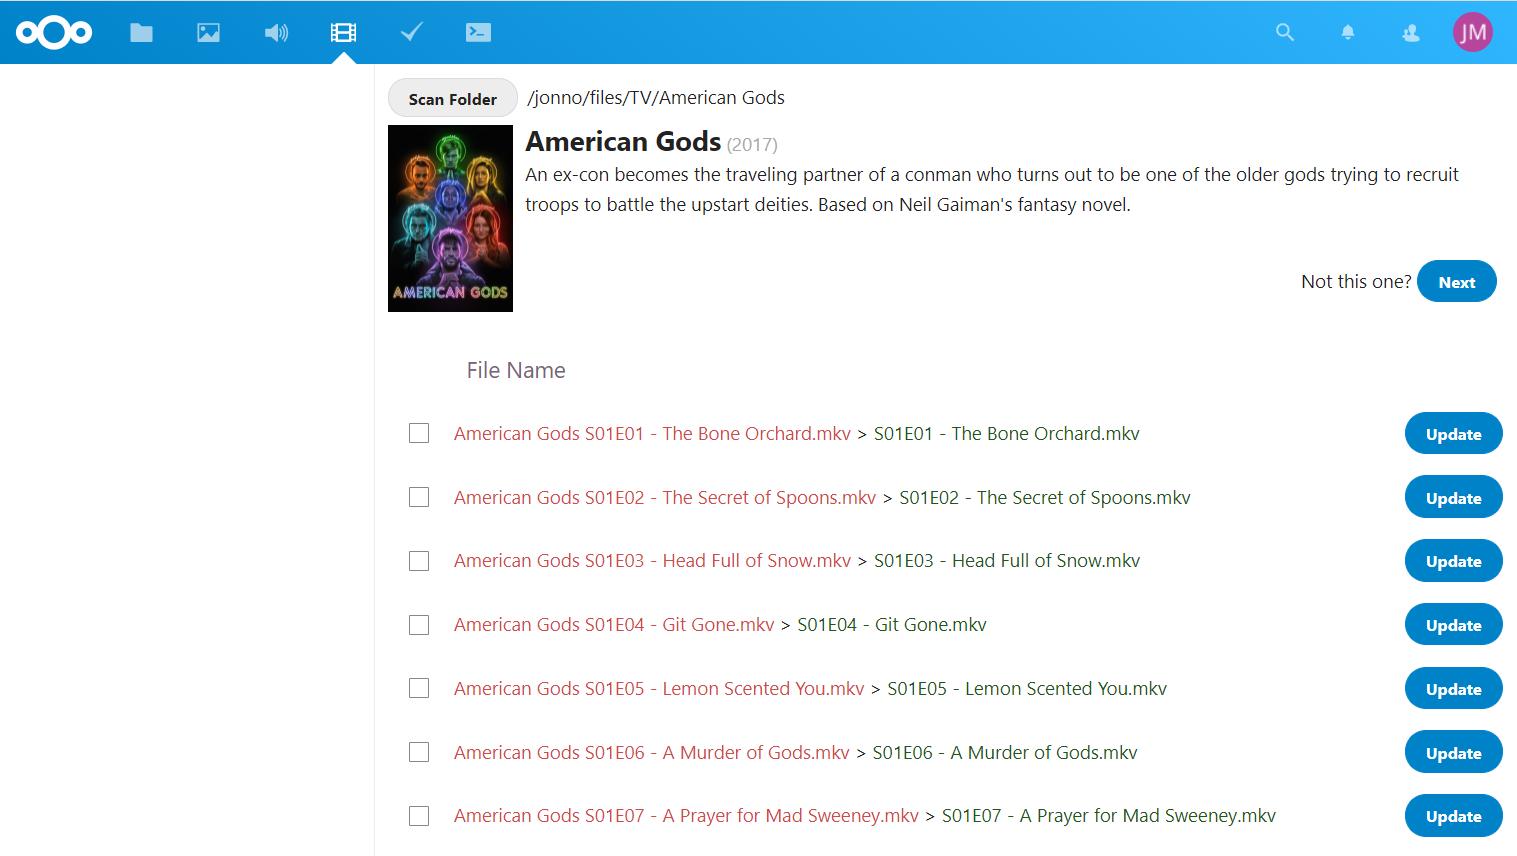
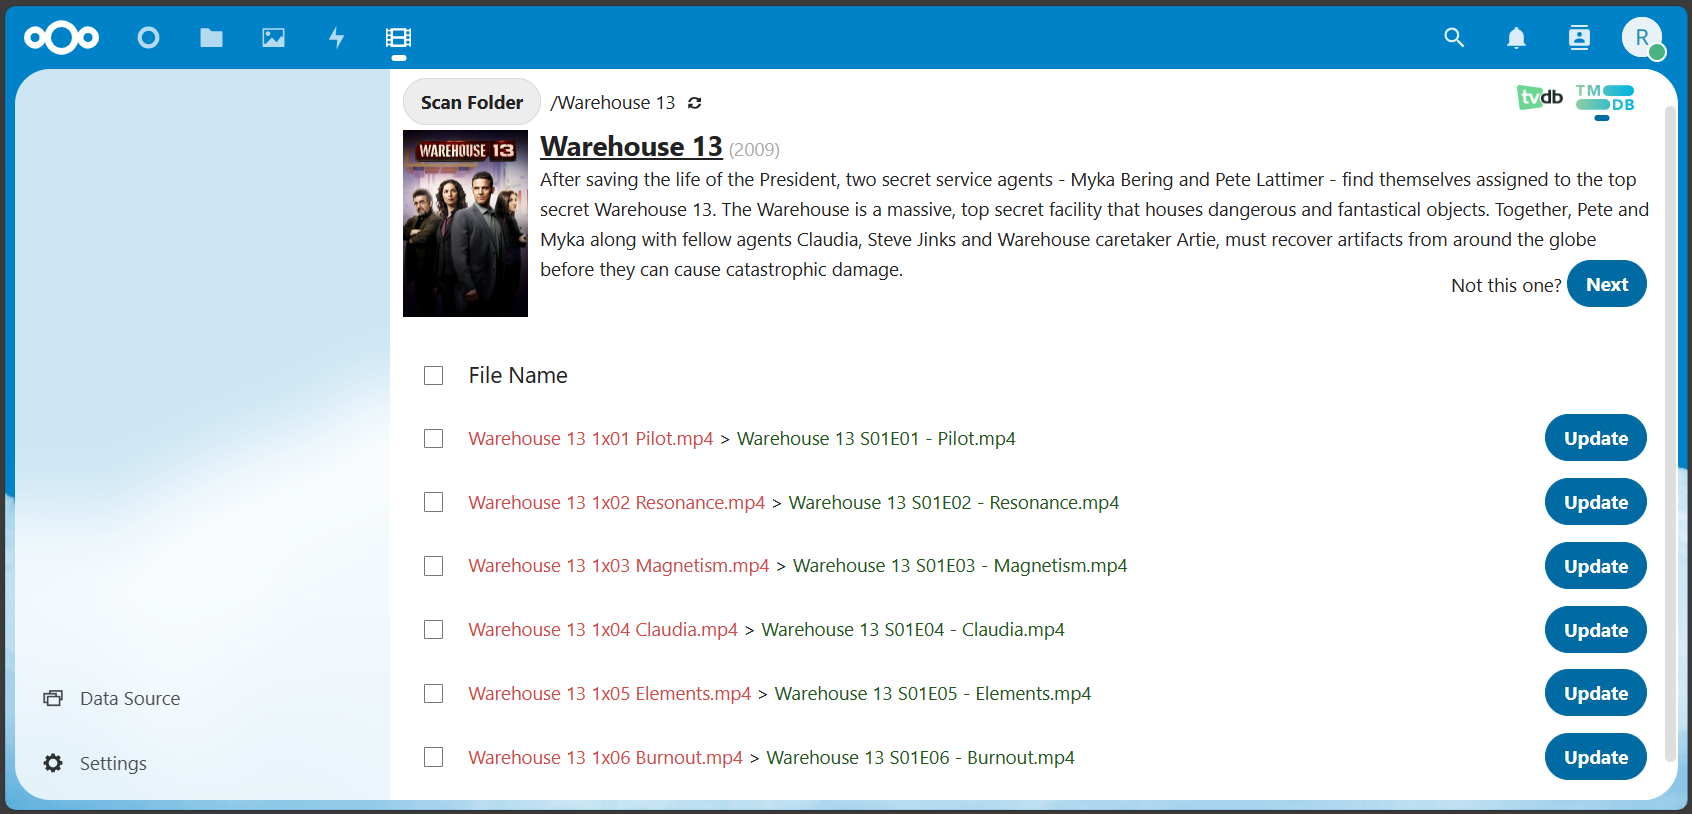
update app info

diff --git a/CHANGELOG.md b/CHANGELOG.md
@@ -1,5 +1,15 @@
 # Changelog
 
+## v1.0.0
+  added TVDB data source
+  no need for api keys
+  data source selection
+  your TMDB api key can still be used as a personal api key
+  better cache for quicker searching
+  reduced languages for better comparability
+  fixes for light/bark theme
+  spelling and grammar fixes
+
 ## v0.6.2
   translation updates
   v27 compatibility
